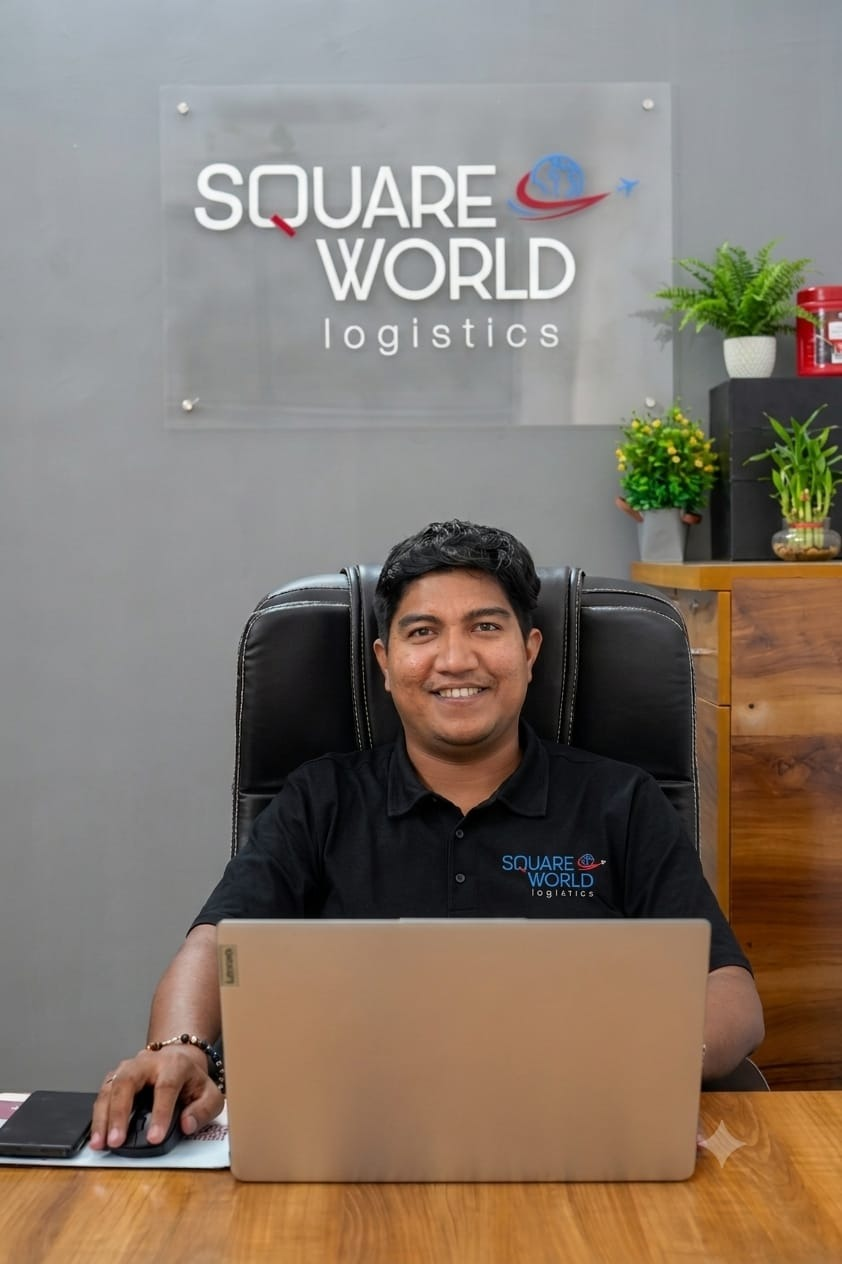
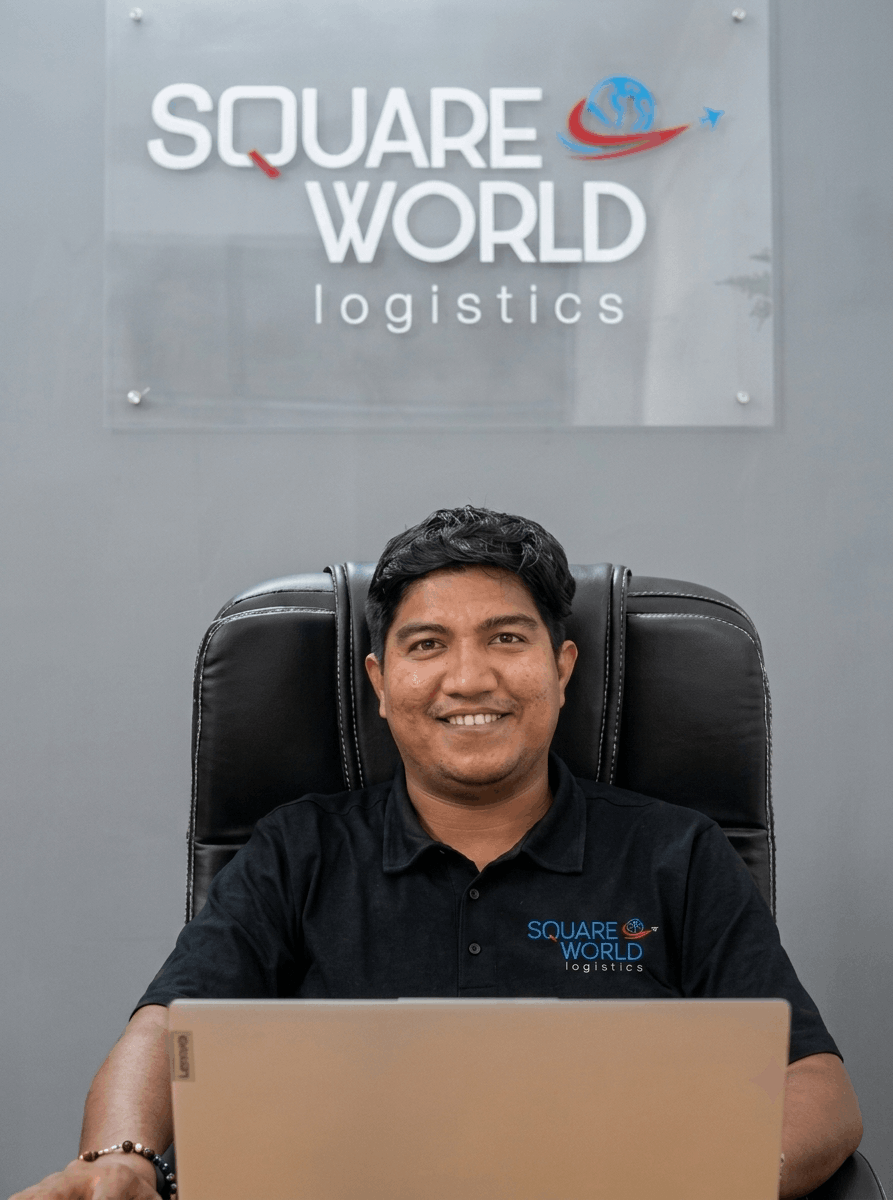
update

diff --git a/components/leadership-section.tsx b/components/leadership-section.tsx
@@ -33,17 +33,28 @@ export default function LeadershipSection() {
                   position: "relative"
                 }}
               >
-                <img 
-                  src={(leader as any).image} 
-                  alt={leader.name} 
-                  style={{ 
-                    width: "100%", 
-                    height: "100%", 
-                    objectFit: "cover",
-                    objectPosition: "top",
-                    display: "block"
-                  }} 
-                />
+                {(() => {
+                  const scale = (leader as any).imageScale ? `scale(${(leader as any).imageScale})` : "";
+                  const translateY = (leader as any).imageTranslateY ? `translateY(${(leader as any).imageTranslateY})` : "";
+                  const translateX = (leader as any).imageTranslateX ? `translateX(${(leader as any).imageTranslateX})` : "";
+                  const transform = [scale, translateY, translateX].filter(Boolean).join(" ") || "none";
+                  return (
+                    <img 
+                      src={(leader as any).image} 
+                      alt={leader.name} 
+                      style={{ 
+                        width: "100%", 
+                        height: "100%", 
+                        objectFit: "cover",
+                        objectPosition: (leader as any).imagePosition || "center top",
+                        transform,
+                        transformOrigin: "center center",
+                        transition: "transform 0.3s ease",
+                        display: "block"
+                      }} 
+                    />
+                  );
+                })()}
               </div>
 
               {/* Leader Info */}

diff --git a/lib/site-data.ts b/lib/site-data.ts
@@ -236,6 +236,8 @@ export const LEADERSHIP = [
     name: "Priyank Mistry",
     role: "Founder",
     image: "/founder-new.jpg",
+    imageScale: 1.1,
+    // imageTranslateY: "-%",
     vision: "Our operational strength lies in our agility. By combining human expertise with streamlined processes, we ensure that every parcel tells a story of successful global connection.",
     ethics: [
       "Operational Integrity",
@@ -247,6 +249,8 @@ export const LEADERSHIP = [
     name: "Spandan Behera",
     role: "Co-Founder",
     image: "/co-founder.png",
+    imageScale: 1.15,
+    imageTranslateY: "5%",
     vision: "To redefine global logistics through radical transparency and unwavering reliability. We didn't just build a shipping company; we built a promise of excellence that spans every border.",
     ethics: [
       "Absolute Transparency",
